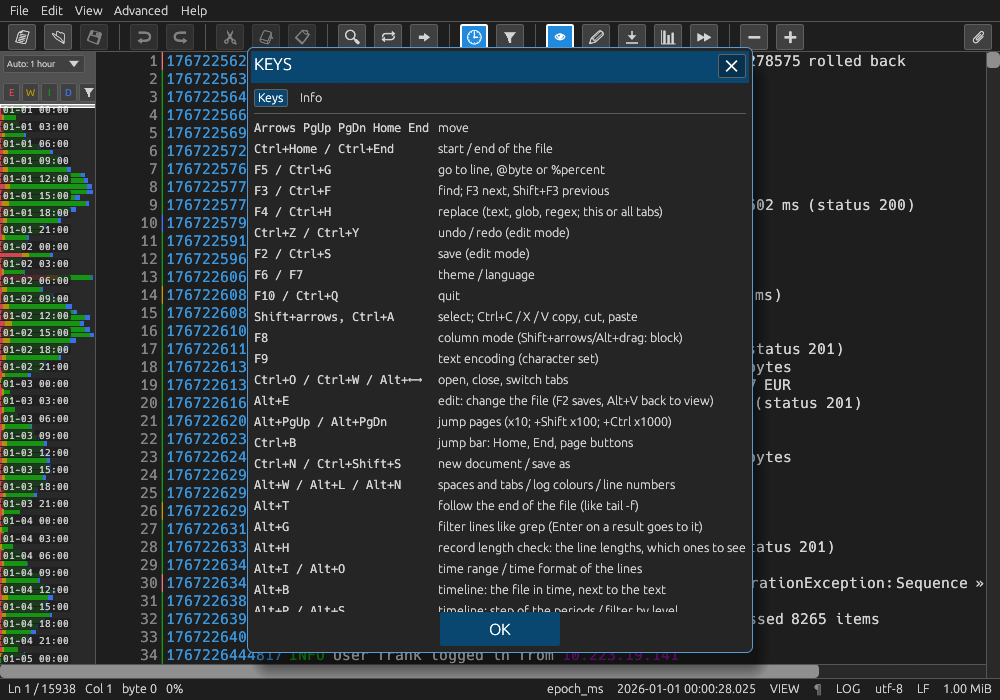
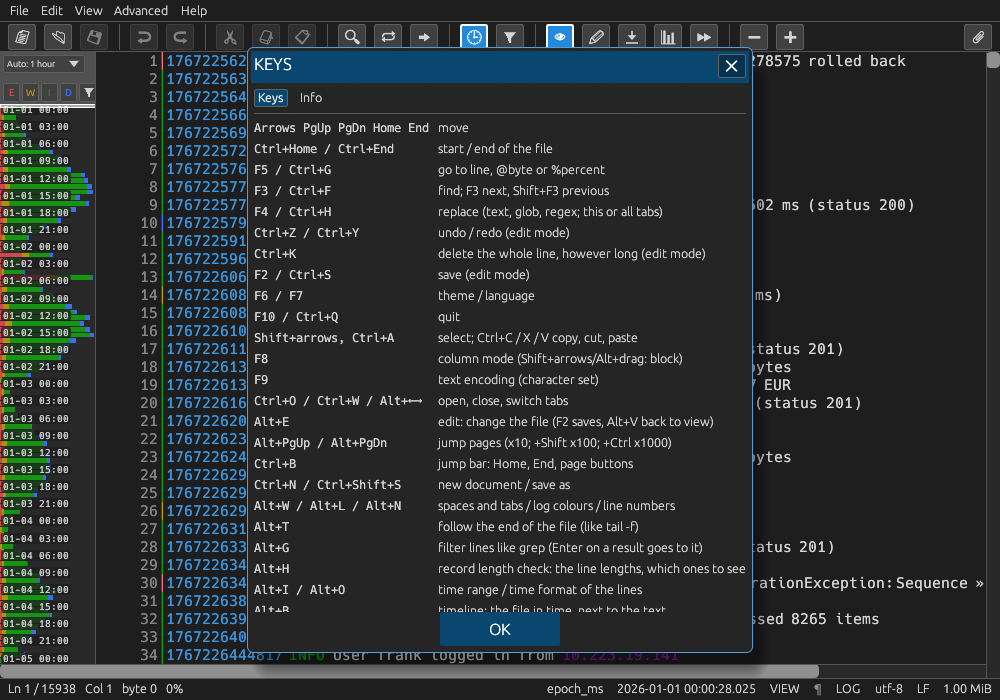
docs: la 0.1.8 si racconta in tutte e due le lingue, e le schermate tornano deterministiche - la carta N-01 documenta --version e rimanda a Ctrl+K dove le righe si tagliano a 128 KiB, la riga -V entra nell'aiuto della riga di comando (7 lingue), le schermate e la GIF rigenerate (l'aiuto F1 ha la rig

Changed region(s): [[0.434, 0.36, 0.744, 0.87], [0.248, 0.36, 0.403, 0.75], [0.279, 0.81, 0.341, 0.87]]

diff --git a/bench/make_tui_screens.py b/bench/make_tui_screens.py
@@ -24,10 +24,11 @@ COLONNE = 120
 RIGHE = 30
 
 # (nome, chiavi --keys, descrizione breve per il log)
+# n05-salti: chiavi vuote (il Ctrl+B prepended e' gia' il suo tasto - due toggle spegnerebbero la barra)
 SCATTI = [
     ('n01-apre', '', 'il file aperto nel terminale'),
     ('n04-vai', 'F5', 'il prompt Vai a'),
-    ('n05-salti', 'Ctrl+B', 'la barra dei salti'),
+    ('n05-salti', '', 'la barra dei salti'),
     ('m02-modi', 'Alt+M', 'il menu dei modi'),
     ('t01-formato', 'Alt+O', 'la finestra del formato'),
     ('t03-intervallo', 'Alt+I', 'la finestra del tempo'),
@@ -52,7 +53,14 @@ def scompatta(nome, cartella):
 
 def dump(chiavi, file):
     """Una corsa di --dump-colori: lo schermo come celle, ognuna con colonna, riga, colore di primo piano e di
-    sfondo (esadecimale) e carattere. Ctrl+B sempre per primo, cosi' la barra dei salti si vede in ogni scatto."""
+    sfondo (esadecimale) e carattere. Ctrl+B sempre per primo, cosi' la barra dei salti si vede in ogni scatto.
+    Il file delle impostazioni si AZZERA prima di ogni scatto: il programma ci scrive lo stato dei toggle
+    (Ctrl+B, la timeline...) e senza azzeramento ogni scatto partirebbe da quello che ha lasciato il precedente
+    - la catena dei toggle sfalsava le schermate (FL59c)."""
+    try:
+        os.remove(SETTINGS)
+    except OSError:
+        pass
     cmd = [EXE, '--dump', f'{COLONNE}x{RIGHE}', '--theme', 'dark', '--settings', SETTINGS, '--dump-colori', file]
     if chiavi:
         cmd += ['--keys', f'Ctrl+B,{chiavi}']

diff --git a/bench/make_docs_images.py b/bench/make_docs_images.py
@@ -75,6 +75,13 @@ def percorso_impostazioni():
 
 def scatta(nome, azioni, extra, attesa, cartella):
     """One screenshot: MRPG_SCREENSHOT saves it and exits after a few frames."""
+    # the settings file is RESET before every shot: the program writes the state of the toggles
+    # (timeline, jump bar...) to it, and without the reset each shot would start from what the
+    # previous one left - the toggle chain scrambled the screenshots (FL59c)
+    try:
+        os.remove(percorso_impostazioni())
+    except OSError:
+        pass
     file = [scompatta('epoch', cartella)] + [scompatta(e, cartella) for e in extra]
     env = ambiente(MRPG_SCREENSHOT=os.path.join(MANUALE, nome + '.png'))
     if attesa:
@@ -98,6 +105,11 @@ def filmato(cartella):
     """The README GIF: MRPG_FILM shoots the frames of a scroll, PIL assembles them."""
     from PIL import Image
     quadri = tempfile.mkdtemp(prefix='mrp_film_')
+    # come gli scatti: impostazioni azzerate, la GIF parte dai default di fabbrica
+    try:
+        os.remove(percorso_impostazioni())
+    except OSError:
+        pass
     env = ambiente(
         MRPG_FILM=quadri,
         MRPG_FILM_N='30',

diff --git a/rust/crates/mrp-tui/src/main.rs b/rust/crates/mrp-tui/src/main.rs
@@ -57,6 +57,7 @@ fn run<I: IntoIterator<Item = OsString>>(argv: I) -> i32 {
             "cli.help.enc",
             "cli.help.eol",
             "cli.help.trk",
+            "cli.help.ver",
             "cli.help.l5",
         ] {
             println!("{}", cat.t(chiave));

diff --git a/docs/MANUAL.it.md b/docs/MANUAL.it.md
@@ -60,12 +60,12 @@ terminale, le stesse tre righe chiudono la tabella dei tasti: versione, AGPL-3.0
 #### N-01 Aprire un file dalla riga di comando
 
 ![Il log aperto nel terminale: il testo colorato, la riga di stato, il footer](img/tui/n01-apre.png)
-- **Tasti:** `mrp-tui FILE`. Senza file, torna l'ultima sessione (vedi [*Salvataggio automatico e sessione*](../ARCHITECTURE.it.md#salvataggio-automatico-e-sessione-come-sopravvive-il-lavoro-non-salvato)); senza sessione, un "Untitled 1" vuoto.
+- **Tasti:** `mrp-tui FILE`. Senza file, torna l'ultima sessione (vedi [*Salvataggio automatico e sessione*](../ARCHITECTURE.it.md#salvataggio-automatico-e-sessione-come-sopravvive-il-lavoro-non-salvato)); senza sessione, un "Untitled 1" vuoto. `mrp-tui --version` (o `-V`) stampa la versione e esce: comodo per sapere che binario gira, prima di ogni prova.
 - **Cosa succede:** prima schermata immediata, modo `VIEW`, posizione `Ln 1  Col 1  byte 0  0%`, nome e dimensione del file a destra.
   Mentre l'indice si costruisce: `indexing N%` a destra, `Ln ?` a sinistra, e il margine dei numeri di riga vuoto.
 - **Cosa non deve mai succedere:** caricare il file intero; bloccare lo schermo durante l'indicizzazione; chiedere alcunche'.
 - **Limiti:** **su Windows, mentre un file e' aperto qui, altri programmi possono aggiungerci dati, rinominarlo o cancellarlo, ma non troncarlo** (aprirlo in scrittura con troncamento, o accorciarlo, fallisce con un errore di sistema: il file e' memory-mappato). Un servizio che azzera il suo log ricevera' quell'errore mentre qualcuno lo sta guardando; aggiungere, ruotare con un rename e cancellare vanno bene (testato). Un file mancante da' un errore e nessuna finestra; un file vuoto si apre con 0 righe; un file che e' una sola
-  riga enorme scorre lo stesso (le righe si tagliano a 128 KiB); un file di 64 MiB o piu' mostra una barra di avanzamento dopo 2 s (N-08).
+  riga enorme scorre lo stesso (le righe si tagliano a 128 KiB — ma `Ctrl+K` cancella la riga VERA intera, vedi M-04); un file di 64 MiB o piu' mostra una barra di avanzamento dopo 2 s (N-08).
 
 #### N-02 Aprire un altro file, documento nuovo
 

diff --git a/docs/MANUAL.md b/docs/MANUAL.md
@@ -68,12 +68,12 @@ status row as the terminal.
 
 ![The log open in the window: the coloured text, the status row, the footer](img/manual/n01-apre.png)
 ![The log open in the terminal: the coloured text, the status row, the footer](img/tui/n01-apre.png)
-- **Entry:** `mrp-tui FILE` / `mrp-gui FILE`. With no file, the last session comes back (see [*Autosave and session*](../ARCHITECTURE.md#autosave-and-session-how-unsaved-work-survives)); with none, an empty "Untitled 1".
+- **Entry:** `mrp-tui FILE` / `mrp-gui FILE`. With no file, the last session comes back (see [*Autosave and session*](../ARCHITECTURE.md#autosave-and-session-how-unsaved-work-survives)); with none, an empty "Untitled 1". `mrp-tui --version` (or `-V`) prints the version and exits: handy to know which binary is running, before any test.
 - **Expected response:** first screen immediately, mode `VIEW`, position `Ln 1  Col 1  byte 0  0%`, file name and size on the right.
   While the index is being built: `indexing N%` on the right, `Ln ?` on the left, and a blank line-number gutter *(observed on a 6 GB file)*.
 - **Must not:** load the whole file; freeze the screen while indexing; ask anything.
 - **Limits and edge cases:** **on Windows, while a file is open here, other programs can append to it, rename it or delete it, but cannot truncate it** (opening it for writing with truncation, or shrinking it, fails with a system error: the file is memory-mapped). A service that restarts its log from zero will get that error while someone is viewing the log; appending, rotating by rename and deleting are fine (tested). A missing file gives an error and no window; an empty file opens with 0 lines; a file that is one single
-  huge line still scrolls (rows are cut at 128 KiB); a file of 64 MiB or more shows a progress bar after 2 s (N-08).
+  huge line still scrolls (rows are cut at 128 KiB - but `Ctrl+K` deletes the WHOLE true line, see M-04); a file of 64 MiB or more shows a progress bar after 2 s (N-08).
 - **Auto tests:** yes (`app_view`, `cli`, `pausa_indice`, `utf16_core`...).
 
 #### N-02 Open another file, new document

diff --git a/CHANGELOG.md b/CHANGELOG.md
@@ -7,7 +7,7 @@ Format inspired by "Keep a Changelog".
 ## [0.1.8] - 2026-11-26
 
 ### Added
-- **`--version` (or `-V`) on the command line** (terminal): prints `Manto.RustPad 0.1.8` and exits - who runs the mass record length check without a terminal can finally tell which binary is running (the number was already in the help's info tab and in the window title).
+- **`--version` (or `-V`) on the command line** (terminal): prints `Manto.RustPad 0.1.8` and exits, and the `--help` text lists it - who runs the mass record length check without a terminal can finally tell which binary is running (the number was already in the help's info tab and in the window title).
 - **Delete line (`Ctrl+K`)** (terminal and window): removes the WHOLE line the cursor is on, from its start through its newline, in one shot - even a huge line the terminal shows in pieces. Rows longer than 128 KiB are cut into "visual rows" so a one-line 1 GB file cannot block the interface, but that made a monstrous record practically undeletable (selecting and deleting worked on the 128 KiB piece, and after saving the record looked untouched - the X-09 census). `Ctrl+K` reads the true line bounds in 64 KiB chunks and deletes it whole; it works in edit mode only, it is undoable, and it is in the Edit menu of the window.
 - **F3 reopens the search prompt after a no-match** (terminal and window): until now, after the first search `F3` repeated it forever and the only way to change the pattern was `Ctrl+F`; now, when the last search finished without finding anything, `F3` reopens the prompt with the previous text already in it (the U-16 census). When the last search found something, `F3` still repeats it.
 
